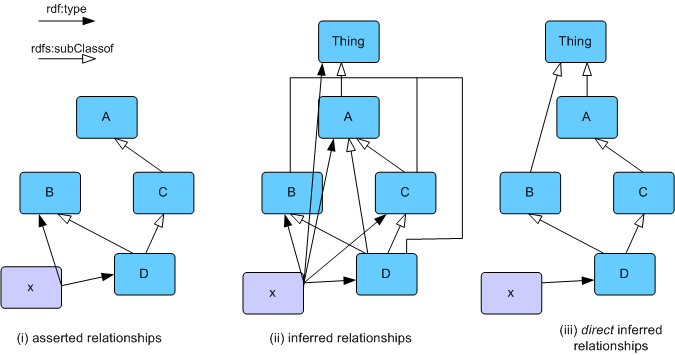
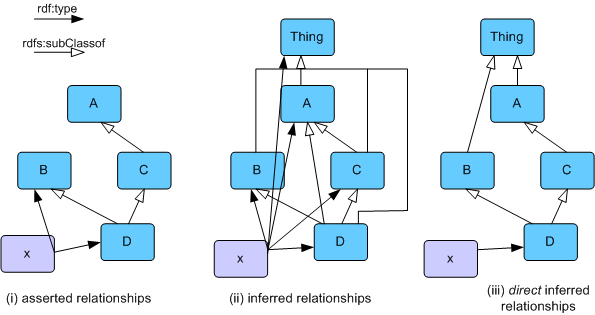
Various minor documentation fixes in response to editorial comments from Holger. Also fixed style sheet for better display when printed.

diff --git a/doc/user-manual/ontology/index.html b/doc/user-manual/ontology/index.html
@@ -714,7 +714,7 @@ m.read( &quot;http://www.xfront.com/owl/ontologies/camera/&quot; );</pre>
 <p>For other user interface or presentation tasks, we may want something between 
   the complete list of types and the base list of only the asserted values. Consider 
   the following class hierarchy:</p>
-<p class="centered"><img src="../../images/Direct-hierarchy.png" width="675" height="355"></p>
+<p class="centered"><img src="../../images/Direct-hierarchy.png" width="595" height="315"></p>
 <p class="caption">Figure 5: asserted and inferred relationships</p>
 <p>Figure 5.i shows a base model, containing a class hierarchy and an instance 
   x. Figure 5.ii shows a full set of relationships that might be inferred from 
@@ -931,12 +931,13 @@ body.addRange( Body );</pre>
 <p>Both DAML+OIL and OWL permit object and datatype properties to be <i>functional</i> 
   - that is, for a given individual in the domain, the range value will always 
   be the same. In DAML+OIL, this characteristic is labelled as a<i> unique </i>property, 
-  but the idea is the same. Rather than model being functional as an additional 
-  component of the Java class name (such as FunctionalObjectProperty), we have 
-  chosen to model the capability of being functional as a flag on the <code>OntProperty</code> 
-  object. Thus, when creating an object or datatype property, there is an optional 
-  Boolean parameter to indicate whether this property is functional. A property 
-  that is functional will also support the facet interface <code>FunctionalProperty</code>.</p>
+  but the idea is the same. A functional property also has a maximum cardinality 
+  of one. Rather than represent the quality of being functional in the Java class 
+  name (for example FunctionalObjectProperty), we have chosen to represent the 
+  capability of being functional as a flag on the <code>OntProperty</code> object. 
+  Thus, when creating an object or datatype property, there is an optional Boolean 
+  parameter to indicate whether this property is functional. A property that is 
+  functional will also support the facet interface <code>FunctionalProperty</code>.</p>
 <p>There are several additional subtypes of ObjectProperty that represent additional 
   capabilities of ontology properties. A <code>TransitiveProperty</code> means 
   that if p is transitive, and we know <code>A p B</code> and also <code>B p C</code>, 

diff --git a/doc/styles/usermanual.css b/doc/styles/usermanual.css
@@ -1,11 +1,24 @@
+/* Style sheet for Jena user manual documents */
+/* CVS $Id: $ */
+
+/* Media-specific rules */
+
+/* Nice margin on web pages, don't bother for printed pages */
+@media print {
+    body { margin-left: 0; margin-right: 0; }
+}
+
+@media screen, projection {
+    body { margin-left: 5%; margin-right: 5%; }
+}
+
+/* Non media-specific rules */
 
 body {
 	font-family: Verdana, Arial, Helvetica, sans-serif ;
 	font-size: 10pt ;
 	color: black;
 	background: white ;
-	margin-left: 5%;
-	margin-right: 5%;
 }
 
 /* Broswer CSS2 table support is rather "individual" */
